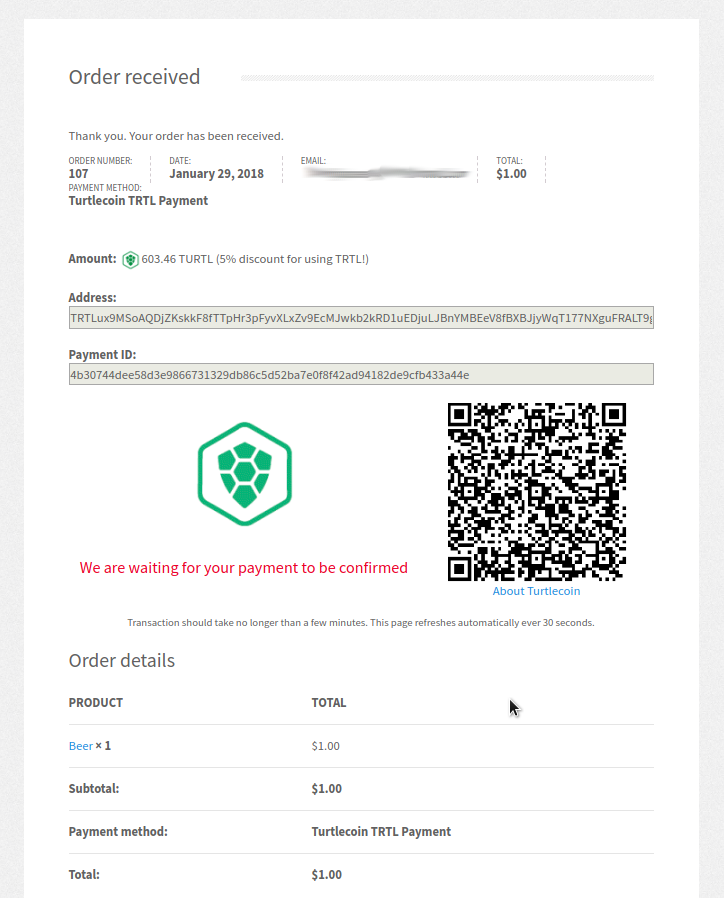
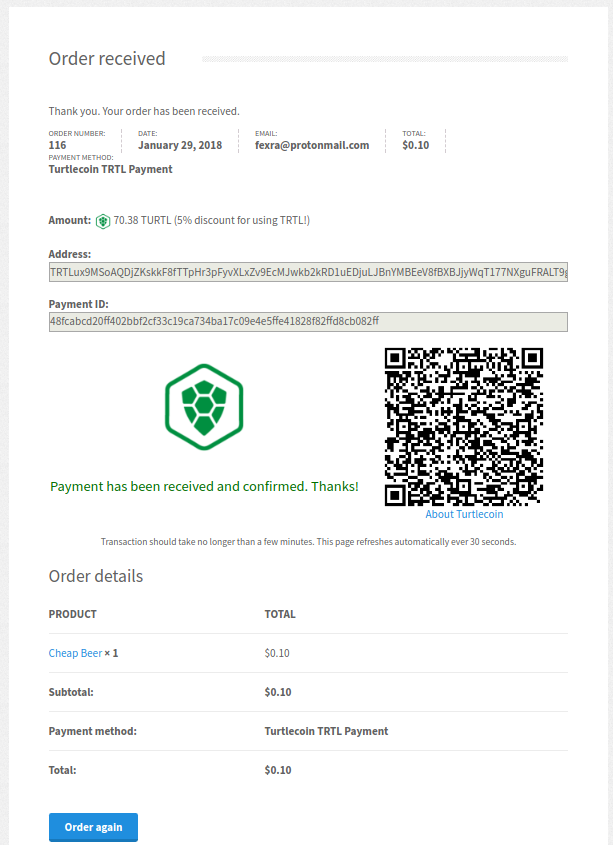
spelling error

diff --git a/include/turtlecoin_payments.php b/include/turtlecoin_payments.php
@@ -218,9 +218,9 @@ class Turtlecoin_Gateway extends WC_Payment_Gateway {
         
         if($this->discount) {
             $sanatized_discount = preg_replace('/[^0-9]/', '', $this->discount);
-            $price = $amount_TRTL2." TURTL (".$sanatized_discount."% discount for using TRTL!)"; 
+            $price = $amount_TRTL2." TRTL (".$sanatized_discount."% discount for using TRTL!)"; 
         } else {
-            $price = $amount_TRTL2." TURTL";
+            $price = $amount_TRTL2." TRTL";
         }
 
         echo "
